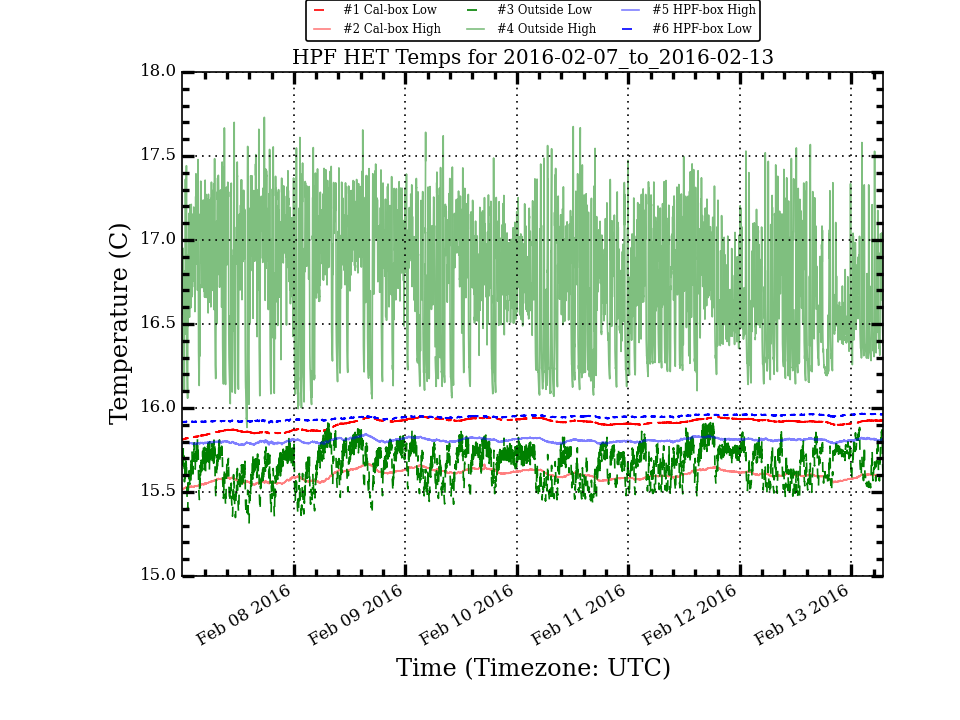
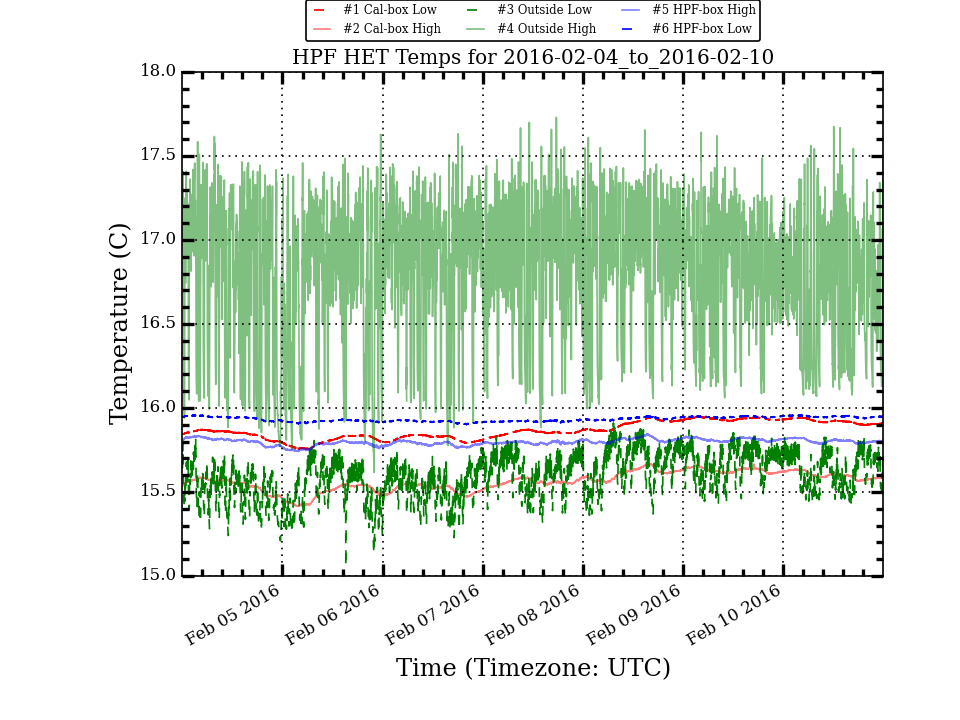
Update HPF Temp Plots

diff --git a/research/hpf_temps/plots/LakeShoreLogTotal_week_stats.html b/research/hpf_temps/plots/LakeShoreLogTotal_week_stats.html
@@ -10,56 +10,56 @@
  </TR>
  <TR>
   <TD>Cal_Low</TD>
-  <TD>15.909</TD>
-  <TD>0.031</TD>
-  <TD>15.919</TD>
+  <TD>15.868</TD>
+  <TD>0.052</TD>
+  <TD>15.861</TD>
   <TD>15.957</TD>
-  <TD>15.811</TD>
-  <TD>0.146</TD>
+  <TD>15.754</TD>
+  <TD>0.203</TD>
  </TR>
  <TR>
   <TD>Cal_High</TD>
-  <TD>15.601</TD>
-  <TD>0.030</TD>
-  <TD>15.600</TD>
+  <TD>15.564</TD>
+  <TD>0.056</TD>
+  <TD>15.566</TD>
   <TD>15.672</TD>
-  <TD>15.514</TD>
-  <TD>0.158</TD>
+  <TD>15.415</TD>
+  <TD>0.257</TD>
  </TR>
  <TR>
   <TD>Out_Low</TD>
-  <TD>15.657</TD>
-  <TD>0.110</TD>
-  <TD>15.677</TD>
-  <TD>15.914</TD>
-  <TD>15.308</TD>
-  <TD>0.606</TD>
+  <TD>15.591</TD>
+  <TD>0.134</TD>
+  <TD>15.601</TD>
+  <TD>15.911</TD>
+  <TD>15.055</TD>
+  <TD>0.856</TD>
  </TR>
  <TR>
   <TD>Out_High</TD>
-  <TD>16.744</TD>
-  <TD>0.357</TD>
-  <TD>16.783</TD>
+  <TD>16.782</TD>
+  <TD>0.401</TD>
+  <TD>16.885</TD>
   <TD>17.730</TD>
-  <TD>15.884</TD>
-  <TD>1.846</TD>
+  <TD>15.617</TD>
+  <TD>2.113</TD>
  </TR>
  <TR>
   <TD>HPF_High</TD>
-  <TD>15.807</TD>
-  <TD>0.012</TD>
-  <TD>15.807</TD>
+  <TD>15.799</TD>
+  <TD>0.018</TD>
+  <TD>15.799</TD>
   <TD>15.846</TD>
-  <TD>15.778</TD>
-  <TD>0.068</TD>
+  <TD>15.741</TD>
+  <TD>0.105</TD>
  </TR>
  <TR>
   <TD>HPF_Low</TD>
-  <TD>15.945</TD>
-  <TD>0.013</TD>
-  <TD>15.948</TD>
-  <TD>15.967</TD>
-  <TD>15.910</TD>
-  <TD>0.057</TD>
+  <TD>15.934</TD>
+  <TD>0.014</TD>
+  <TD>15.932</TD>
+  <TD>15.958</TD>
+  <TD>15.900</TD>
+  <TD>0.058</TD>
  </TR>
 </TABLE>

diff --git a/research/hpf_temps/plots/LakeShoreLogTotal_month_stats.html b/research/hpf_temps/plots/LakeShoreLogTotal_month_stats.html
@@ -10,54 +10,54 @@
  </TR>
  <TR>
   <TD>Cal_Low</TD>
-  <TD>15.730</TD>
-  <TD>0.361</TD>
-  <TD>15.882</TD>
+  <TD>15.630</TD>
+  <TD>0.439</TD>
+  <TD>15.859</TD>
   <TD>15.984</TD>
   <TD>14.496</TD>
   <TD>1.488</TD>
  </TR>
  <TR>
   <TD>Cal_High</TD>
-  <TD>15.419</TD>
-  <TD>0.380</TD>
-  <TD>15.576</TD>
+  <TD>15.312</TD>
+  <TD>0.469</TD>
+  <TD>15.562</TD>
   <TD>15.688</TD>
   <TD>14.080</TD>
   <TD>1.608</TD>
  </TR>
  <TR>
   <TD>Out_Low</TD>
-  <TD>15.470</TD>
-  <TD>0.441</TD>
-  <TD>15.596</TD>
+  <TD>15.330</TD>
+  <TD>0.571</TD>
+  <TD>15.564</TD>
   <TD>16.014</TD>
-  <TD>13.803</TD>
-  <TD>2.211</TD>
+  <TD>13.793</TD>
+  <TD>2.221</TD>
  </TR>
  <TR>
   <TD>Out_High</TD>
-  <TD>16.578</TD>
-  <TD>0.675</TD>
-  <TD>16.746</TD>
+  <TD>16.406</TD>
+  <TD>0.841</TD>
+  <TD>16.666</TD>
   <TD>18.017</TD>
   <TD>14.206</TD>
   <TD>3.811</TD>
  </TR>
  <TR>
   <TD>HPF_High</TD>
-  <TD>15.696</TD>
-  <TD>0.187</TD>
-  <TD>15.790</TD>
+  <TD>15.656</TD>
+  <TD>0.207</TD>
+  <TD>15.779</TD>
   <TD>16.156</TD>
   <TD>15.065</TD>
   <TD>1.091</TD>
  </TR>
  <TR>
   <TD>HPF_Low</TD>
-  <TD>15.832</TD>
-  <TD>0.182</TD>
-  <TD>15.927</TD>
+  <TD>15.797</TD>
+  <TD>0.194</TD>
+  <TD>15.919</TD>
   <TD>16.080</TD>
   <TD>15.269</TD>
   <TD>0.811</TD>
